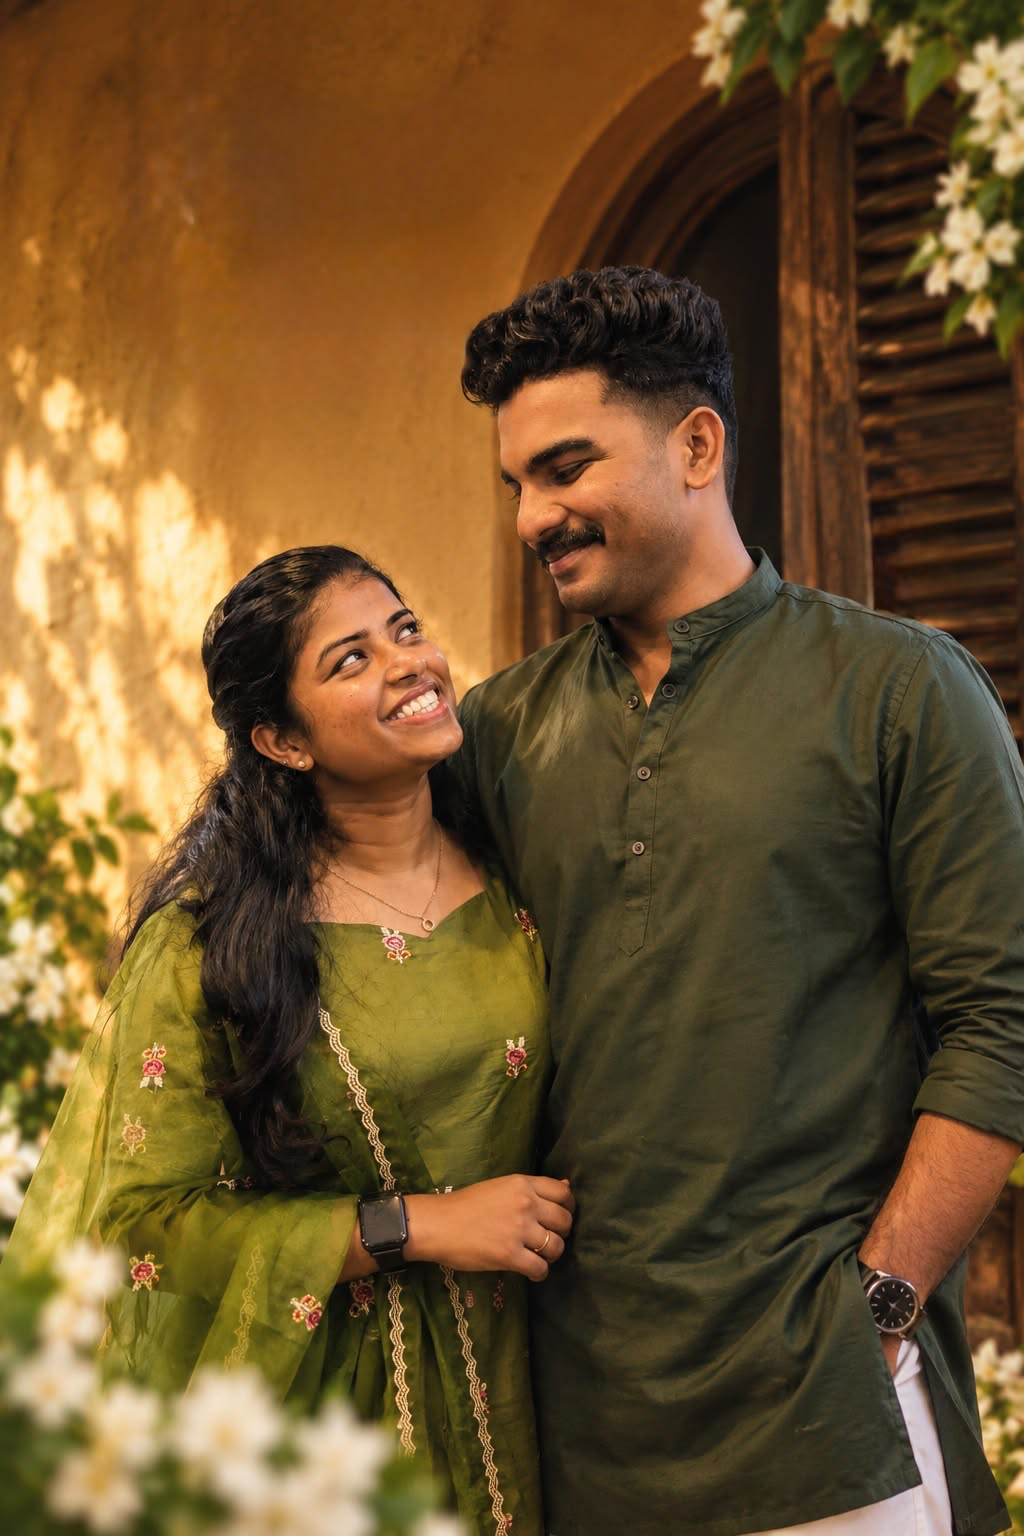
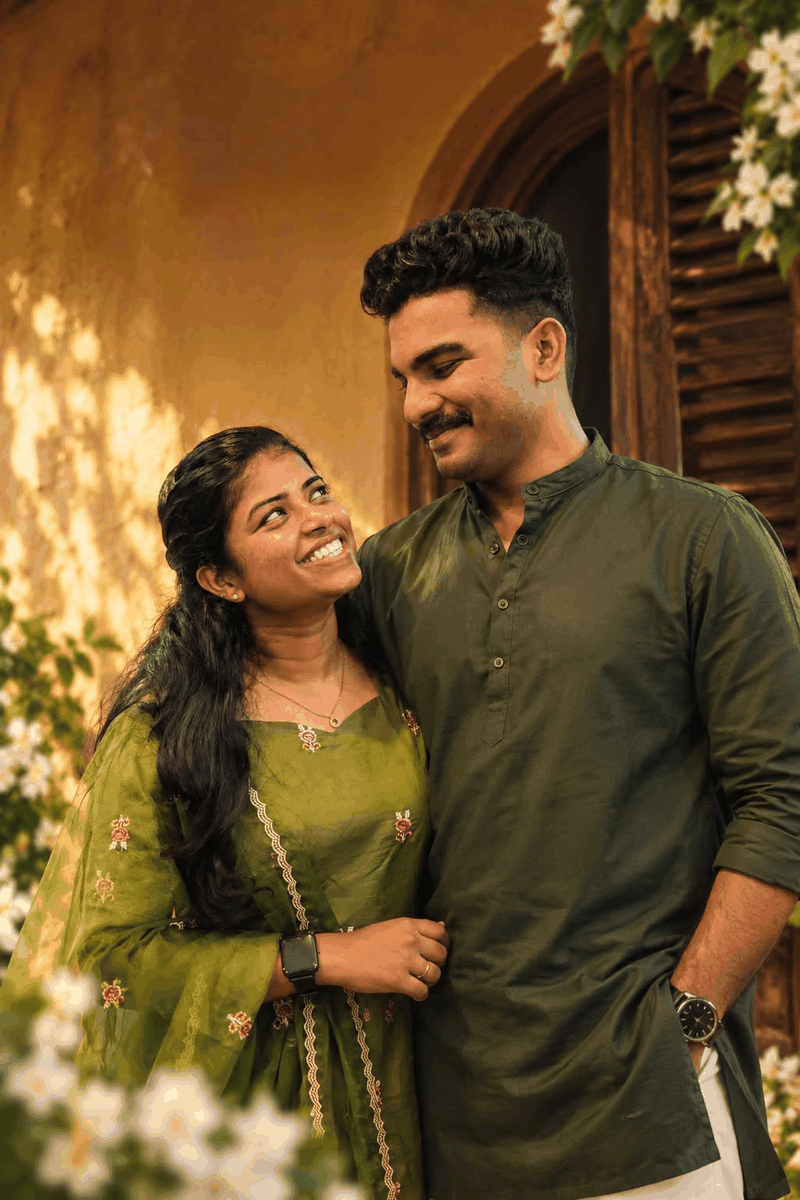
Optimize preview images and update Open Graph metadata for WhatsApp & mobile link unfurling

diff --git a/index.html b/index.html
@@ -12,22 +12,30 @@
   <meta property="og:type" content="website">
   <meta property="og:site_name" content="Divya &amp; Nidhin Wedding">
   <meta property="og:title" content="Divya &amp; Nidhin — Wedding Invitation">
-  <meta property="og:description" content="You are invited to the wedding of Divya &amp; Nidhin on 3 December 2026 at Saila Auditorium, Karuvatta.">
-  <meta property="og:image" content="/preview.png">
-  <meta property="og:image:secure_url" content="/preview.png">
-  <meta property="og:image:type" content="image/png">
-  <meta property="og:image:width" content="1024">
-  <meta property="og:image:height" content="1536">
+  <meta property="og:description" content="A celebration of love, family &amp; togetherness. You are invited to the wedding of Divya &amp; Nidhin on 3 December 2026.">
+  <meta property="og:image" content="https://raw.githubusercontent.com/vsoftinvitations-ctrl/Divya-nidhin/main/public/preview-card.jpg">
+  <meta property="og:image:secure_url" content="https://raw.githubusercontent.com/vsoftinvitations-ctrl/Divya-nidhin/main/public/preview-card.jpg">
+  <meta property="og:image:type" content="image/jpeg">
+  <meta property="og:image:width" content="1200">
+  <meta property="og:image:height" content="630">
   <meta property="og:image:alt" content="Divya &amp; Nidhin Wedding Invitation">
+
+  <!-- Fallback Square Preview for WhatsApp chat thumbnails -->
+  <meta property="og:image" content="https://raw.githubusercontent.com/vsoftinvitations-ctrl/Divya-nidhin/main/public/preview-square.jpg">
+  <meta property="og:image:secure_url" content="https://raw.githubusercontent.com/vsoftinvitations-ctrl/Divya-nidhin/main/public/preview-square.jpg">
+  <meta property="og:image:type" content="image/jpeg">
+  <meta property="og:image:width" content="800">
+  <meta property="og:image:height" content="800">
 
   <!-- Twitter / X Card Preview -->
   <meta name="twitter:card" content="summary_large_image">
   <meta name="twitter:title" content="Divya &amp; Nidhin — Wedding Invitation">
-  <meta name="twitter:description" content="You are invited to the wedding of Divya &amp; Nidhin on 3 December 2026 at Saila Auditorium, Karuvatta.">
-  <meta name="twitter:image" content="/preview.png">
+  <meta name="twitter:description" content="A celebration of love, family &amp; togetherness. You are invited to the wedding of Divya &amp; Nidhin on 3 December 2026.">
+  <meta name="twitter:image" content="https://raw.githubusercontent.com/vsoftinvitations-ctrl/Divya-nidhin/main/public/preview-card.jpg">
 
-  <!-- General / Fallback Preview -->
-  <link rel="image_src" href="/preview.png">
+  <!-- General / Fallback Preview & Favicon -->
+  <link rel="image_src" href="https://raw.githubusercontent.com/vsoftinvitations-ctrl/Divya-nidhin/main/public/preview-card.jpg">
+  <link rel="icon" type="image/jpeg" href="/preview-square.jpg">
   <link rel="preconnect" href="https://fonts.googleapis.com">
   <link rel="preconnect" href="https://fonts.gstatic.com" crossorigin>
   <link

diff --git a/wedding-invitation.html b/wedding-invitation.html
@@ -12,22 +12,30 @@
   <meta property="og:type" content="website">
   <meta property="og:site_name" content="Divya &amp; Nidhin Wedding">
   <meta property="og:title" content="Divya &amp; Nidhin — Wedding Invitation">
-  <meta property="og:description" content="You are invited to the wedding of Divya &amp; Nidhin on 3 December 2026 at Saila Auditorium, Karuvatta.">
-  <meta property="og:image" content="/preview.png">
-  <meta property="og:image:secure_url" content="/preview.png">
-  <meta property="og:image:type" content="image/png">
-  <meta property="og:image:width" content="1024">
-  <meta property="og:image:height" content="1536">
+  <meta property="og:description" content="A celebration of love, family &amp; togetherness. You are invited to the wedding of Divya &amp; Nidhin on 3 December 2026.">
+  <meta property="og:image" content="https://raw.githubusercontent.com/vsoftinvitations-ctrl/Divya-nidhin/main/public/preview-card.jpg">
+  <meta property="og:image:secure_url" content="https://raw.githubusercontent.com/vsoftinvitations-ctrl/Divya-nidhin/main/public/preview-card.jpg">
+  <meta property="og:image:type" content="image/jpeg">
+  <meta property="og:image:width" content="1200">
+  <meta property="og:image:height" content="630">
   <meta property="og:image:alt" content="Divya &amp; Nidhin Wedding Invitation">
+
+  <!-- Fallback Square Preview for WhatsApp chat thumbnails -->
+  <meta property="og:image" content="https://raw.githubusercontent.com/vsoftinvitations-ctrl/Divya-nidhin/main/public/preview-square.jpg">
+  <meta property="og:image:secure_url" content="https://raw.githubusercontent.com/vsoftinvitations-ctrl/Divya-nidhin/main/public/preview-square.jpg">
+  <meta property="og:image:type" content="image/jpeg">
+  <meta property="og:image:width" content="800">
+  <meta property="og:image:height" content="800">
 
   <!-- Twitter / X Card Preview -->
   <meta name="twitter:card" content="summary_large_image">
   <meta name="twitter:title" content="Divya &amp; Nidhin — Wedding Invitation">
-  <meta name="twitter:description" content="You are invited to the wedding of Divya &amp; Nidhin on 3 December 2026 at Saila Auditorium, Karuvatta.">
-  <meta name="twitter:image" content="/preview.png">
+  <meta name="twitter:description" content="A celebration of love, family &amp; togetherness. You are invited to the wedding of Divya &amp; Nidhin on 3 December 2026.">
+  <meta name="twitter:image" content="https://raw.githubusercontent.com/vsoftinvitations-ctrl/Divya-nidhin/main/public/preview-card.jpg">
 
-  <!-- General / Fallback Preview -->
-  <link rel="image_src" href="/preview.png">
+  <!-- General / Fallback Preview & Favicon -->
+  <link rel="image_src" href="https://raw.githubusercontent.com/vsoftinvitations-ctrl/Divya-nidhin/main/public/preview-card.jpg">
+  <link rel="icon" type="image/jpeg" href="/preview-square.jpg">
   <link rel="preconnect" href="https://fonts.googleapis.com">
   <link rel="preconnect" href="https://fonts.gstatic.com" crossorigin>
   <link
